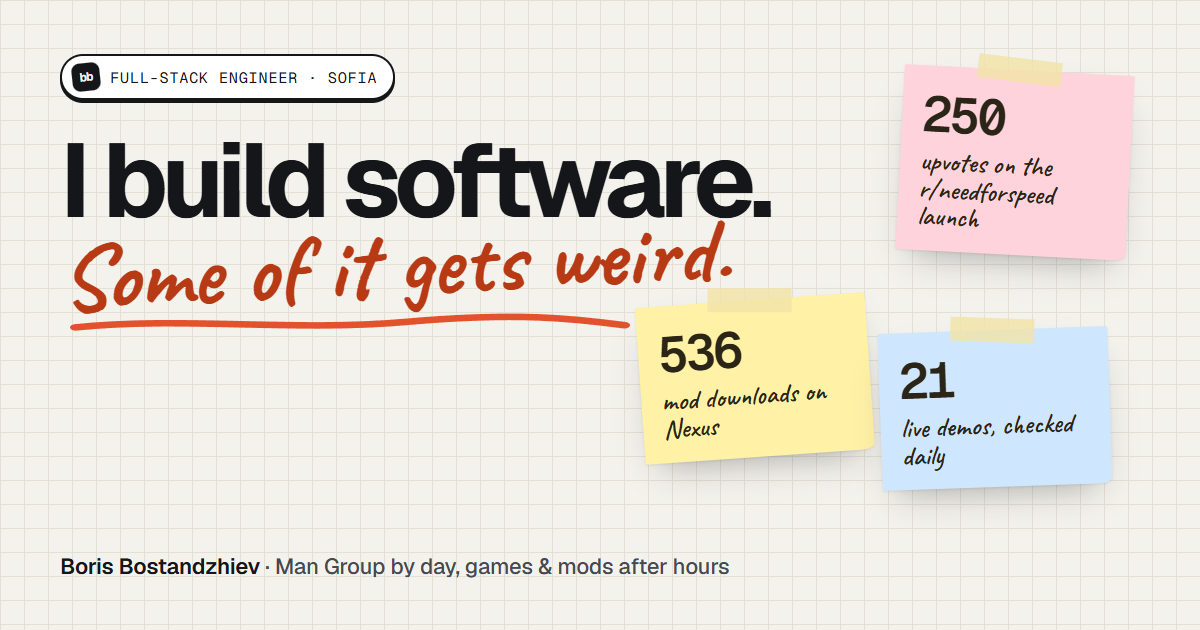
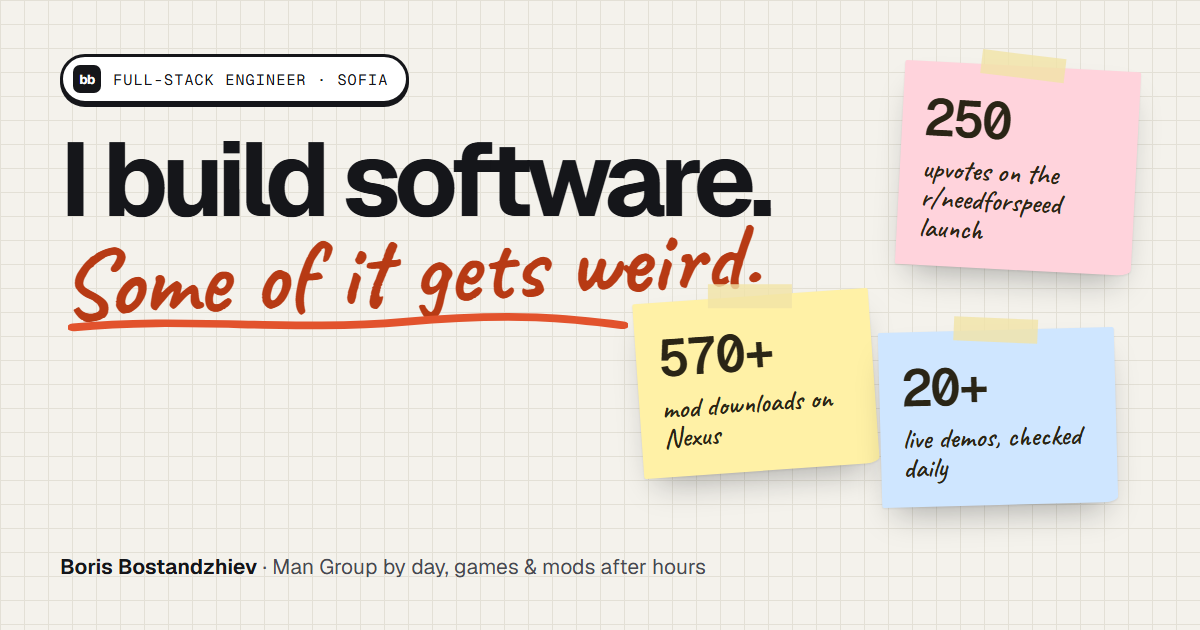
Refresh the link preview card with current numbers
The preview image still said 536 downloads and 21 demos. The new card says
570+ and 20+, so it stays true as the counts grow. It ships as v5 so LinkedIn
and chat apps fetch it fresh; v4 is overwritten for links already shared.

diff --git a/index.html b/index.html
@@ -34,12 +34,12 @@
     <meta property="og:type" content="website" />
     <meta property="og:url" content="https://boris-portfolio-git.pages.dev/" />
     <meta property="og:site_name" content="Boris Bostandzhiev Portfolio" />
-    <meta property="og:image" content="https://boris-portfolio-git.pages.dev/social-preview-v4.png" />
-    <meta property="og:image:secure_url" content="https://boris-portfolio-git.pages.dev/social-preview-v4.png" />
+    <meta property="og:image" content="https://boris-portfolio-git.pages.dev/social-preview-v5.png" />
+    <meta property="og:image:secure_url" content="https://boris-portfolio-git.pages.dev/social-preview-v5.png" />
     <meta property="og:image:type" content="image/png" />
     <meta property="og:image:width" content="1200" />
     <meta property="og:image:height" content="630" />
-    <meta property="og:image:alt" content="Boris Bostandzhiev portfolio preview with project screenshots" />
+    <meta property="og:image:alt" content="Boris Bostandzhiev, full-stack engineer: I build software, some of it gets weird. 570+ mod downloads, a 250-upvote launch and 20+ live demos." />
 
     <meta name="twitter:card" content="summary_large_image" />
     <meta name="twitter:title" content="Boris Bostandzhiev | Full-stack Engineer &amp; Creative Developer" />
@@ -47,8 +47,8 @@
       name="twitter:description"
       content="Product software, music tools, games, and 3D projects built by Boris Bostandzhiev."
     />
-    <meta name="twitter:image" content="https://boris-portfolio-git.pages.dev/social-preview-v4.png" />
-    <meta name="twitter:image:alt" content="Boris Bostandzhiev portfolio preview with project screenshots" />
+    <meta name="twitter:image" content="https://boris-portfolio-git.pages.dev/social-preview-v5.png" />
+    <meta name="twitter:image:alt" content="Boris Bostandzhiev, full-stack engineer: I build software, some of it gets weird. 570+ mod downloads, a 250-upvote launch and 20+ live demos." />
   </head>
   <body>
     <div id="root"></div>

diff --git a/src/components/RouteEffects.tsx b/src/components/RouteEffects.tsx
@@ -45,7 +45,7 @@ export function RouteEffects() {
       ? `${site}${cover}`
       : project?.screenshot
       ? `${site}/project-shots/${project.slug}/latest/card.jpg`
-      : `${site}/social-preview-v4.png`;
+      : `${site}/social-preview-v5.png`;
     update('meta[property="og:image"]', image);
     update('meta[property="og:image:secure_url"]', image);
     update('meta[name="twitter:image"]', image);
